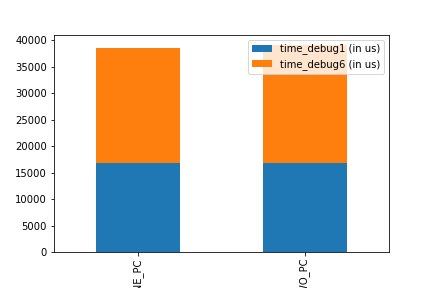
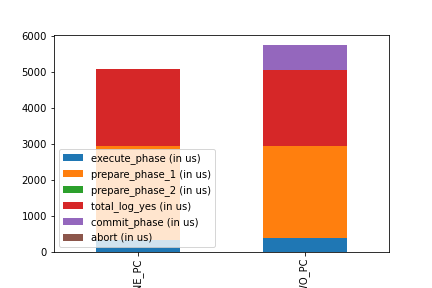
collect distributed latency breakdown

diff --git a/system/txn.cpp b/system/txn.cpp
@@ -212,8 +212,14 @@ TxnManager::update_stats()
         INC_FLOAT_STATS(execute_phase, _lock_phase_start_time - _txn_restart_time);
         INC_FLOAT_STATS(lock_phase, _prepare_start_time - _lock_phase_start_time);
 #else
+    #if COLLECT_DISTRIBUTED_LATENCY
+        if (!_store_procedure->get_query()->is_local()) 
+    #endif
         INC_FLOAT_STATS(execute_phase, _prepare_start_time - _txn_restart_time);
 #endif
+    #if COLLECT_DISTRIBUTED_LATENCY
+        if (!_store_procedure->get_query()->is_local()) {
+    #endif
         INC_FLOAT_STATS(prepare_phase_1, _both_ack_received_time - _prepare_start_time);
         INC_FLOAT_STATS(prepare_phase_2, _commit_start_time - _both_ack_received_time);
         INC_FLOAT_STATS(commit_phase, _commit_end_time - _commit_start_time);
@@ -221,6 +227,9 @@ TxnManager::update_stats()
 
         INC_FLOAT_STATS(wait, _lock_wait_time);
         INC_FLOAT_STATS(network, _net_wait_time);
+    #if COLLECT_DISTRIBUTED_LATENCY
+        }
+    #endif
         INC_FLOAT_STATS(network_log, _net_log_wait_time);
         INC_FLOAT_STATS(total_log_yes, _log_yes_total_time);
         INC_INT_STATS(num_log_yes, _log_yes_time_cnt);

diff --git a/system/stats.cpp b/system/stats.cpp
@@ -140,7 +140,11 @@ void Stats::output(std::ostream * os)
             total += _stats[tid]->_float_stats[i];
         string suffix = "";
         if ((i >= STAT_execute_phase && i <= STAT_network) || i == STAT_total_log_yes) {
-            total = total / total_num_commits * 1000000; // in us.
+            #if COLLECT_DISTRIBUTED_LATENCY
+                total = total / (total_num_commits - total_num_local) * 1000000; // in us.
+            #else
+                total = total / total_num_commits * 1000000; // in us.
+            #endif
             suffix = " (in us) ";
         }
         #if !LOG_NODE

diff --git a/config-ycsb-std.h b/config-ycsb-std.h
@@ -250,3 +250,5 @@ extern TestCases                    g_test_case;
 #define TWO_PC         2
 
 #define COMMIT_ALG     TWO_PC
+
+#define COLLECT_DISTRIBUTED_LATENCY    true

diff --git a/config.h b/config.h
@@ -250,3 +250,5 @@ extern TestCases                    g_test_case;
 #define TWO_PC         2
 
 #define COMMIT_ALG     TWO_PC
+
+#define COLLECT_DISTRIBUTED_LATENCY    true
